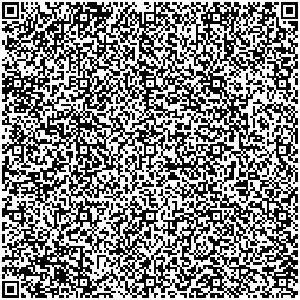
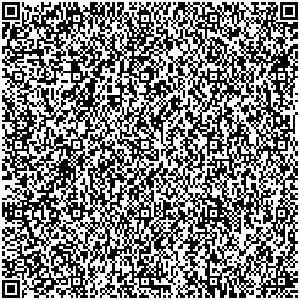
更新vpn二维码及密码

diff --git a/testFlightCredentials.html b/testFlightCredentials.html
@@ -214,7 +214,7 @@
 
                 <div class="label" style="margin-top: 15px;">Decryption Password:</div>
                 <div class="value-box" id="password">
-                    templink958
+                    tempconfig303
                     <!-- 替换为实际密码 -->
                 </div>
                 <button class="copy-btn" onclick="copyToClipboard('password', this)">
@@ -231,7 +231,7 @@
                     <img src="images/QR.jpg" alt="QR Code" id="qr-image">
                     <!-- 替换为实际的二维码图片路径 -->
                     <p style="margin-top: 15px; font-size: 14px; color: #666;">
-                        Decryption Password: <strong>templink958</strong>
+                        Decryption Password: <strong>tempconfig303</strong>
                     </p>
                 </div>
             </div>
